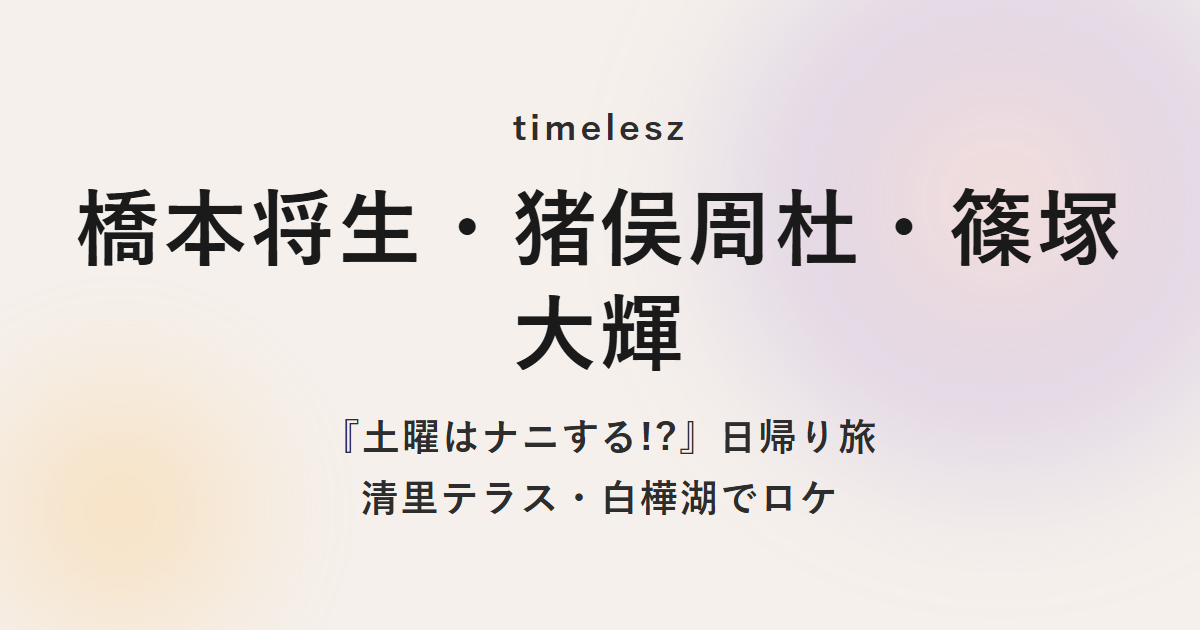
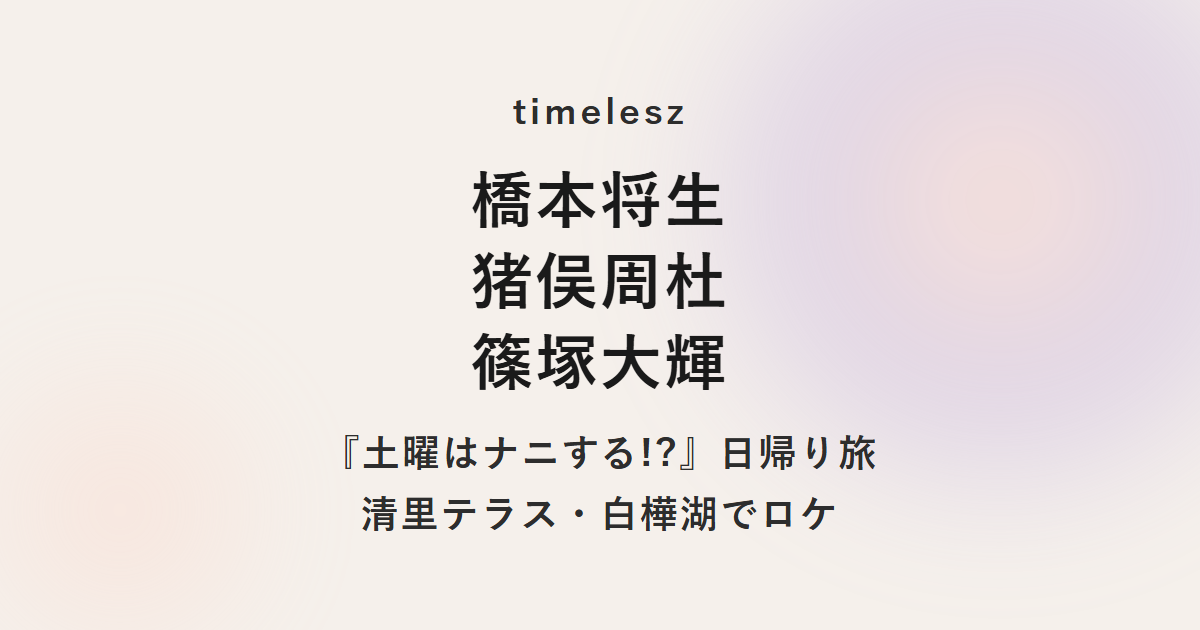
chomoand-0.com汎用アイキャッチツールに複数行指定(main内|区切り)対応を追加、timelesz記事のアイキャッチを名前1行ずつのバランス改善版に差し替え

diff --git a/images/timelesz_donani_daycation_eyecatch.html b/images/timelesz_donani_daycation_eyecatch.html
@@ -21,11 +21,11 @@ body { width: 1200px; height: 630px; overflow: hidden;
 }
 .blob2 {
   position: absolute; width: 400px; height: 400px; border-radius: 50%;
-  background: radial-gradient(circle, rgba(255,183,77,0.7) 0%, transparent 70%);
+  background: radial-gradient(circle, rgba(255,204,188,0.7) 0%, transparent 70%);
   opacity: 0.4; left: -80px; bottom: -80px; filter: blur(40px);
 }
 .top-text { font-size: 36px; font-weight: 700; color: #2d2d2d; letter-spacing: 0.1em; z-index: 1; text-align: center; }
-.name { font-size: 84px; font-weight: 900; color: #1a1a1a; letter-spacing: 0.04em; z-index: 1; text-align: center; line-height: 1.25; max-width: 1080px; }
+.name { font-size: 62px; font-weight: 900; color: #1a1a1a; letter-spacing: 0.04em; z-index: 1; text-align: center; line-height: 1.3; max-width: 1080px; }
 .bottom-text { font-size: 38px; font-weight: 700; color: #2d2d2d; letter-spacing: 0.05em; z-index: 1; text-align: center; line-height: 1.6; }
 </style>
 </head>
@@ -34,7 +34,7 @@ body { width: 1200px; height: 630px; overflow: hidden;
   <div class="blob1"></div>
   <div class="blob2"></div>
   <div class="top-text">timelesz</div>
-  <div class="name">橋本将生・猪俣周杜・篠塚大輝</div>
+  <div class="name">橋本将生<br>猪俣周杜<br>篠塚大輝</div>
   <div class="bottom-text">『土曜はナニする!?』日帰り旅<br>清里テラス・白樺湖でロケ</div>
 </div>
 </body>

diff --git a/tools/eyecatch_chomoand0.py b/tools/eyecatch_chomoand0.py
@@ -41,7 +41,11 @@ COLOR_PAIRS = [
 
 
 def build_html(top: str, main: str, bottom_lines: list[str], seed: int | None = None) -> str:
-    """アイキャッチのHTMLを組み立てる(副作用なし)."""
+    """アイキャッチのHTMLを組み立てる(副作用なし).
+
+    main は "|" 区切りで複数行に分けられる(例: "橋本将生|猪俣周杜|篠塚大輝")。
+    区切り指定がない場合はブラウザの自動改行に任せる。
+    """
     rng = random.Random(seed)
     color1, color2 = rng.choice(COLOR_PAIRS)
     color3, _ = rng.choice(COLOR_PAIRS)
@@ -51,6 +55,11 @@ def build_html(top: str, main: str, bottom_lines: list[str], seed: int | None = 
     if bottom_lines:
         lines = "<br>".join(html_mod.escape(line) for line in bottom_lines)
         bottom_html = f'<div class="bottom-text">{lines}</div>'
+
+    main_lines = main.split("|")
+    main_html_text = "<br>".join(html_mod.escape(line) for line in main_lines)
+    # 行数が多いほど1行あたりの文字量は減るため、行数に応じて最大フォントサイズを調整する
+    main_max_size = {1: 84, 2: 76}.get(len(main_lines), 62)
 
     return f"""<!DOCTYPE html>
 <html lang="ja">
@@ -79,7 +88,7 @@ body {{ width: {CANVAS_W}px; height: {CANVAS_H}px; overflow: hidden;
   opacity: 0.4; left: -80px; bottom: -80px; filter: blur(40px);
 }}
 .top-text {{ font-size: 36px; font-weight: 700; color: {SUB_TEXT_COLOR}; letter-spacing: 0.1em; z-index: 1; text-align: center; }}
-.name {{ font-size: 84px; font-weight: 900; color: {TEXT_COLOR}; letter-spacing: 0.04em; z-index: 1; text-align: center; line-height: 1.25; max-width: 1080px; }}
+.name {{ font-size: {main_max_size}px; font-weight: 900; color: {TEXT_COLOR}; letter-spacing: 0.04em; z-index: 1; text-align: center; line-height: 1.3; max-width: 1080px; }}
 .bottom-text {{ font-size: 38px; font-weight: 700; color: {SUB_TEXT_COLOR}; letter-spacing: 0.05em; z-index: 1; text-align: center; line-height: 1.6; }}
 </style>
 </head>
@@ -88,7 +97,7 @@ body {{ width: {CANVAS_W}px; height: {CANVAS_H}px; overflow: hidden;
   <div class="blob1"></div>
   <div class="blob2"></div>
   {top_html}
-  <div class="name">{html_mod.escape(main)}</div>
+  <div class="name">{main_html_text}</div>
   {bottom_html}
 </div>
 </body>
